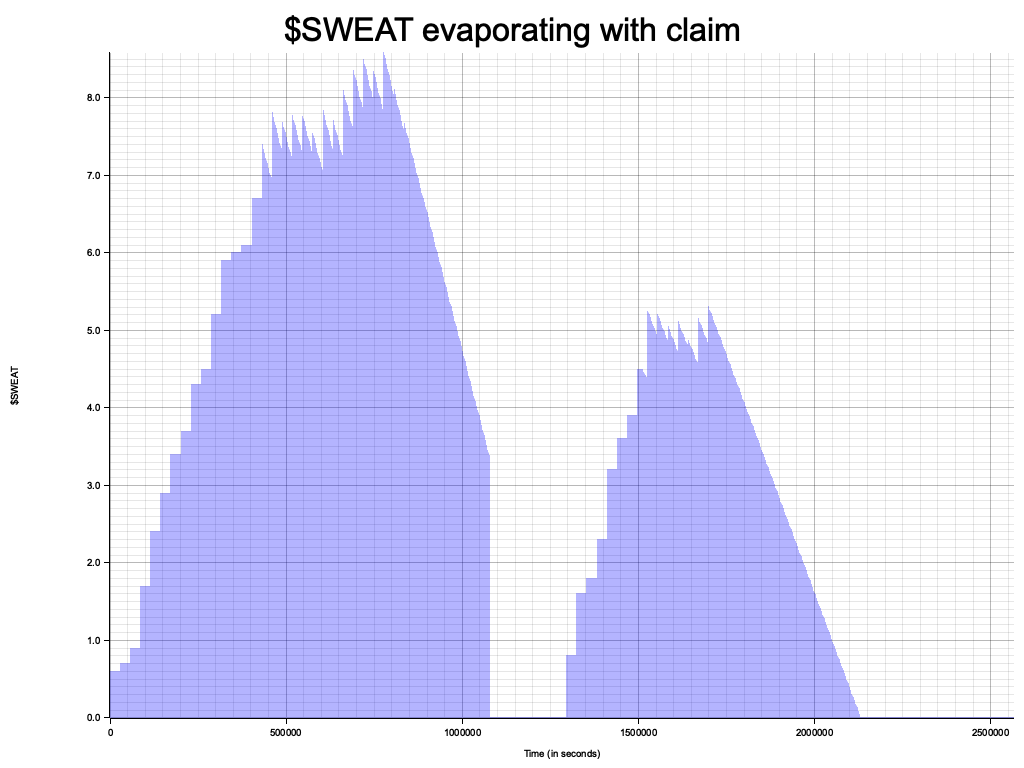
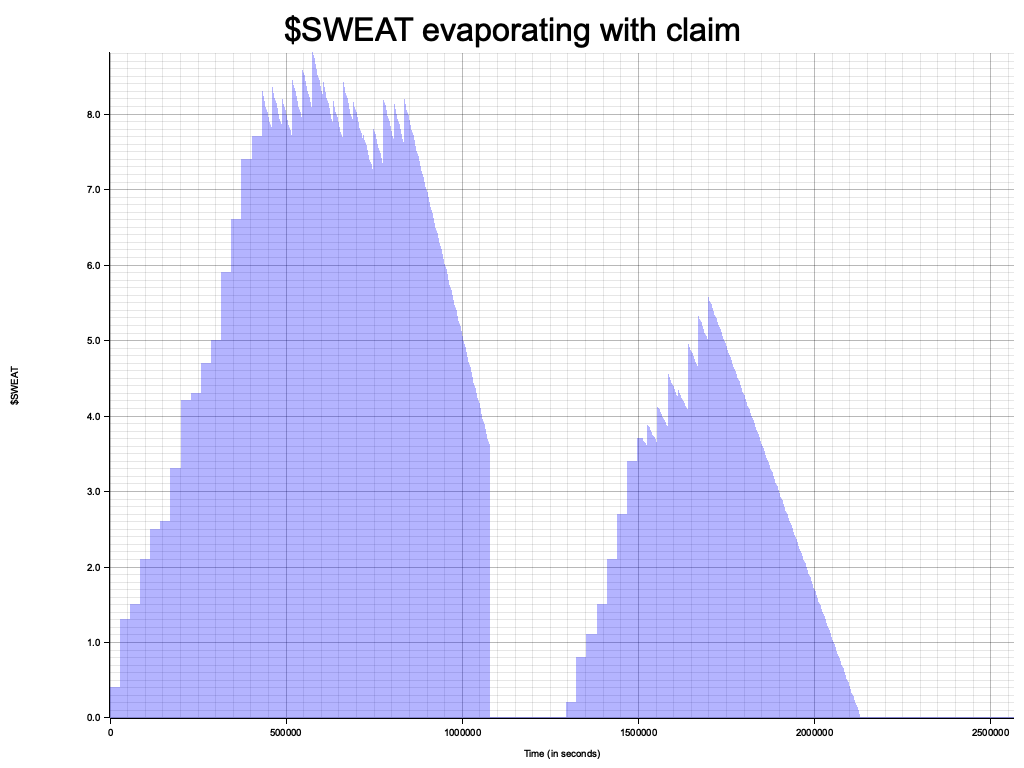
test: add tests for claim

Changed region(s): [[0.0938, 0.0625, 1.0, 0.9062], [0.75, 0.5938, 1.0, 0.9062], [0.0938, 0.5938, 0.1875, 0.9062]]

diff --git a/contract/src/claim/tests.rs b/contract/src/claim/tests.rs
@@ -8,7 +8,10 @@ use near_sdk::{json_types::U128, PromiseOrValue};
 
 use crate::{
     claim::api::test::EXT_TRANSFER_FUTURE,
-    common::tests::{data::set_test_future_success, Context},
+    common::{
+        tests::{data::set_test_future_success, Context},
+        AccountAccessor,
+    },
 };
 
 #[test]
@@ -343,6 +346,30 @@ fn test_claim_when_user_has_tokens_and_claim_period_is_passed_and_transfer_faile
 
     let alice_new_balance = contract.get_claimable_balance_for_account(accounts.alice.clone()).0;
     assert_eq!(alice_balance, alice_new_balance);
+}
+
+#[test]
+fn test_claim_when_user_has_fully_evaporated_balance() {
+    let (mut context, mut contract, accounts) = Context::init_with_oracle();
+
+    let alice_top_up = 500_000_000;
+    context.switch_account(&accounts.oracle);
+    contract.record_batch_for_hold(vec![(accounts.alice.clone(), U128(alice_top_up))]);
+
+    context.set_block_timestamp_in_seconds(2 * contract.burn_period as u64 + 100);
+
+    context.switch_account(&accounts.alice);
+    let claimed_amount = match contract.claim() {
+        PromiseOrValue::Promise(_) => panic!("Expected value"),
+        PromiseOrValue::Value(value) => value,
+    };
+    assert_eq!(0, claimed_amount.total.0);
+
+    let alice_new_balance = contract.get_claimable_balance_for_account(accounts.alice.clone()).0;
+    assert_eq!(0, alice_new_balance);
+
+    assert_eq!(alice_top_up, contract.balance_to_burn);
+    assert!(!contract.accounts.get_account(&accounts.alice).is_locked);
 }
 
 mod demo {

diff --git a/contract/src/common/tests.rs b/contract/src/common/tests.rs
@@ -5,7 +5,7 @@ use std::time::Duration;
 use claim_model::{
     account_record::AccountRecordLegacy,
     api::InitApi,
-    event::{emit, EventKind::Record, RecordData},
+    event::{emit, EventKind::Record, RecordAmountDetailed, RecordData},
 };
 use near_sdk::{json_types::U128, store::Vector, test_utils::VMContextBuilder, testing_env, AccountId};
 
@@ -197,7 +197,13 @@ impl Contract {
             .or_insert_with(|| (Vector::new(_AccrualsEntryLegacy(now_seconds)), 0));
 
         for (account_id, amount) in amounts {
-            event_data.amounts.push((account_id.clone(), amount));
+            event_data.amounts.push((
+                account_id.clone(),
+                RecordAmountDetailed {
+                    credited: amount,
+                    burnt: U128(0),
+                },
+            ));
 
             let amount = amount.0;
             let index = balances.0.len();
